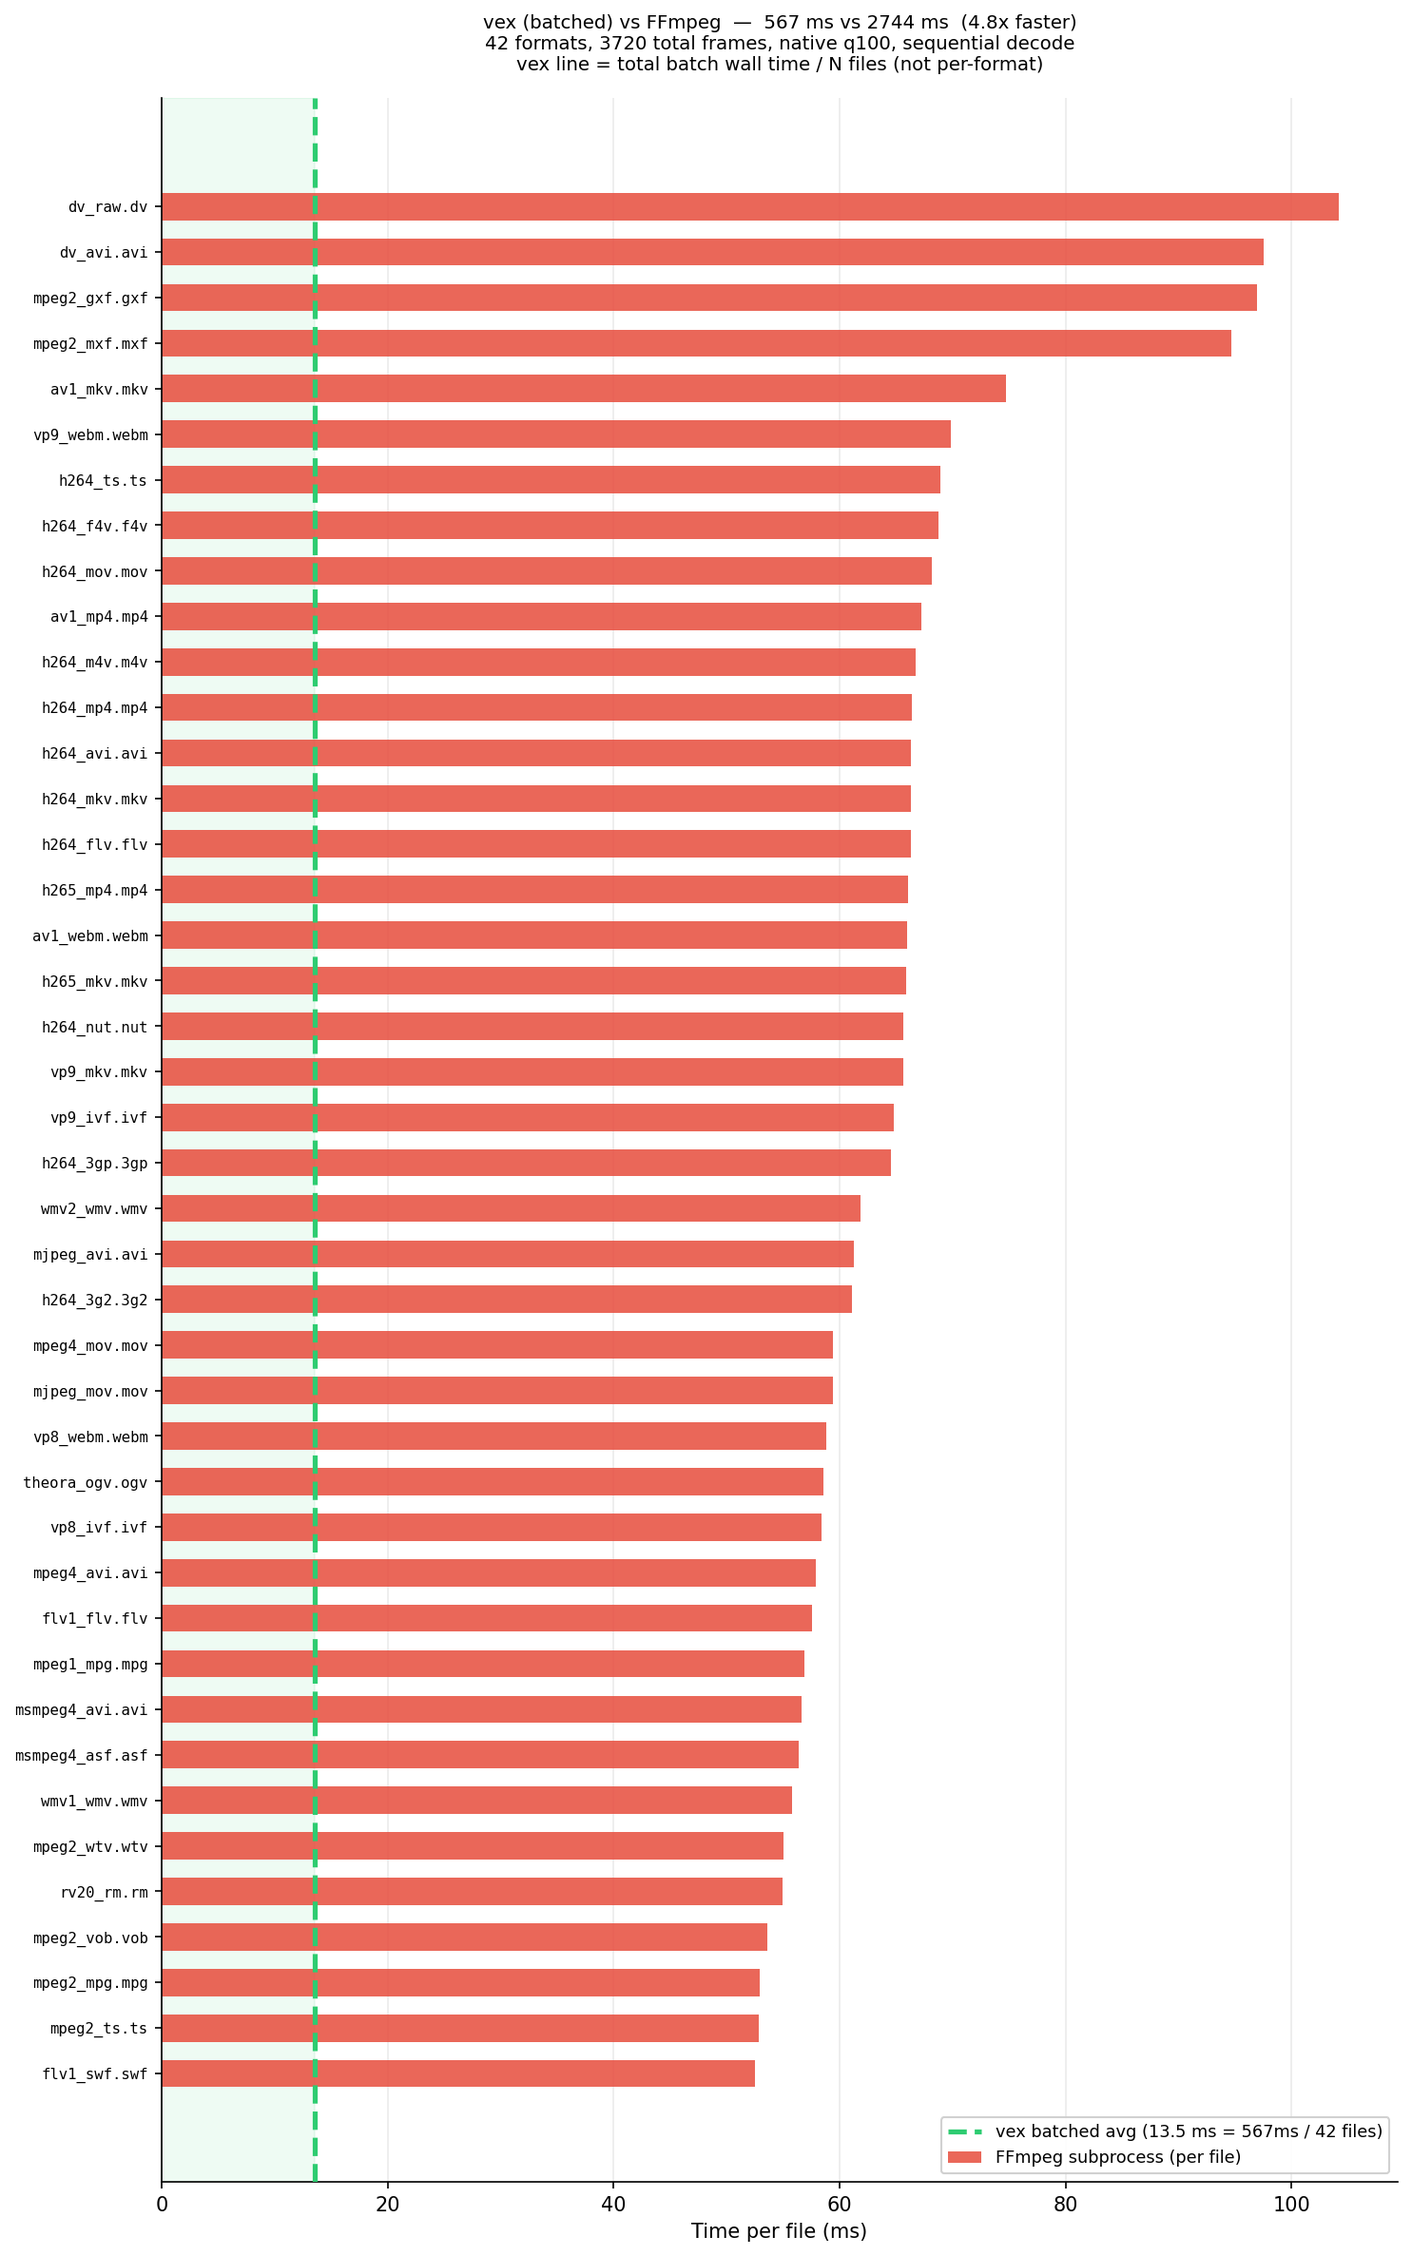
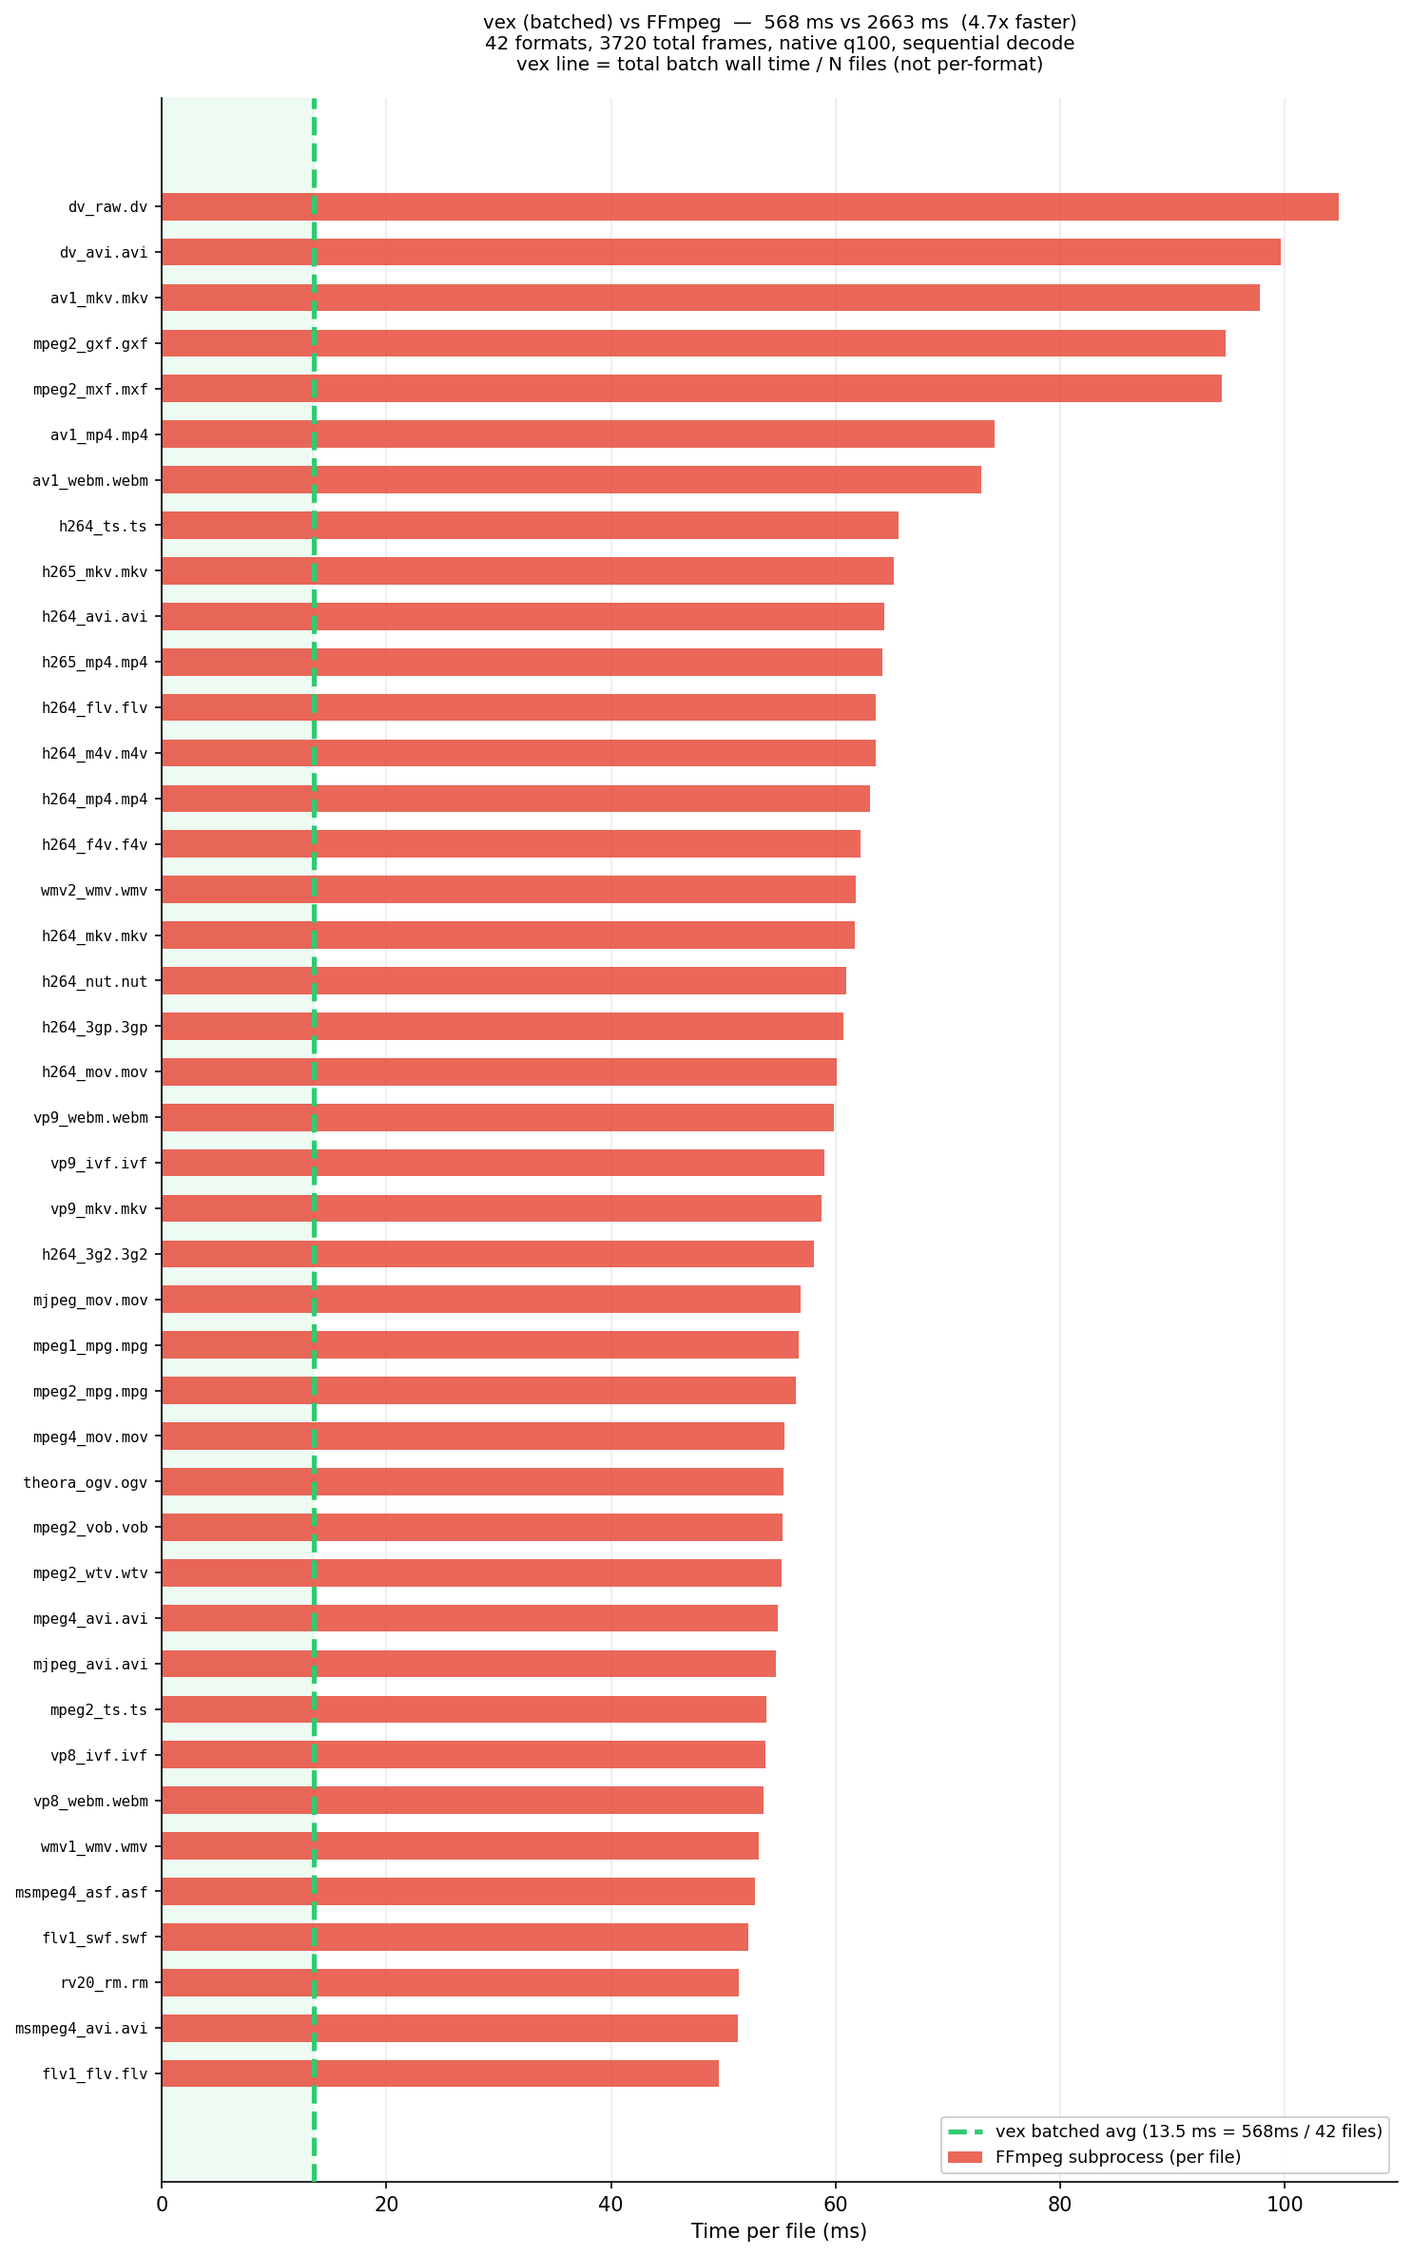
benchmark optimizations and resize optimizations

diff --git a/src/decoder.cpp b/src/decoder.cpp
@@ -8,14 +8,13 @@ extern "C" {
 #include <libavutil/imgutils.h>
 #include <libavutil/pixfmt.h>
 #include <libavutil/log.h>
-#include <libswscale/swscale.h>
 }
 
 namespace vex {
 
 // ── Constructor ─────────────────────────────────────────────────────────────
 
-FileDecoder::FileDecoder(const std::string& path, HWAccelContext* hw) {
+FileDecoder::FileDecoder(const std::string& path, HWAccelContext* hw, int decode_threads) {
     // Step 1: Open input
     int ret = avformat_open_input(&fmt_ctx_, path.c_str(), nullptr, nullptr);
     if (ret < 0) {
@@ -106,7 +105,16 @@ FileDecoder::FileDecoder(const std::string& path, HWAccelContext* hw) {
         hw_accel_ = hw;
     }
 
-    // Step 9: Open codec.  Suppress noisy log output during open — FFmpeg
+    // Step 9: Enable multi-threaded decode.  Codecs like DV support slice
+    // threading (parallel DCT blocks within a frame) which gives a 2-3x
+    // decode speedup.  thread_count=0 tells FFmpeg to auto-detect the
+    // optimal thread count based on CPU cores and codec capabilities.
+    // When the caller specifies a limit (decode_threads > 0), we cap the
+    // count to avoid oversubscription when multiple workers each open
+    // their own codec context.
+    codec_ctx_->thread_count = decode_threads;
+
+    // Step 10: Open codec.  Suppress noisy log output during open — FFmpeg
     // logs warnings for every HW format it tries and rejects.
     int saved_level = av_log_get_level();
     if (hw)
@@ -145,12 +153,6 @@ FileDecoder::~FileDecoder() {
     if (hw_frame_) {
         av_frame_free(&hw_frame_);
     }
-    if (convert_frame_) {
-        av_frame_free(&convert_frame_);
-    }
-    if (convert_ctx_) {
-        sws_freeContext(convert_ctx_);
-    }
     if (codec_ctx_) {
         avcodec_free_context(&codec_ctx_);
     }
@@ -186,53 +188,9 @@ bool FileDecoder::finalize_frame(AVFrame* decode_target, AVFrame* out_frame) {
         av_frame_move_ref(out_frame, decode_target);
     }
 
-    // Convert non-YUV420P frames (e.g. NV12 from HW decode).
-    // Stage 1: Cache the SwsContext and scratch frame across calls to avoid
-    // per-frame allocation overhead (sws_getContext is ~10-100µs).
-    if (out_frame->format != AV_PIX_FMT_YUV420P && out_frame->format != AV_PIX_FMT_YUVJ420P) {
-        int src_fmt = out_frame->format;
-        int src_w = out_frame->width;
-        int src_h = out_frame->height;
-
-        // Rebuild the conversion context if the source format or dimensions
-        // changed (extremely rare — only if a stream changes mid-file).
-        if (!convert_ctx_ || src_fmt != convert_src_fmt_ || src_w != convert_src_w_ ||
-            src_h != convert_src_h_) {
-            if (convert_ctx_)
-                sws_freeContext(convert_ctx_);
-            if (convert_frame_)
-                av_frame_free(&convert_frame_);
-
-            convert_ctx_ =
-                sws_getContext(src_w, src_h, static_cast<AVPixelFormat>(src_fmt), src_w, src_h,
-                               AV_PIX_FMT_YUV420P, SWS_BILINEAR, nullptr, nullptr, nullptr);
-
-            if (!convert_ctx_) {
-                convert_src_fmt_ = AV_PIX_FMT_NONE;
-                av_frame_unref(out_frame);
-                return false;
-            }
-
-            convert_frame_ = av_frame_alloc();
-            convert_frame_->format = AV_PIX_FMT_YUV420P;
-            convert_frame_->width = src_w;
-            convert_frame_->height = src_h;
-            av_frame_get_buffer(convert_frame_, 0);
-
-            convert_src_fmt_ = src_fmt;
-            convert_src_w_ = src_w;
-            convert_src_h_ = src_h;
-        }
-
-        // Make the scratch frame writable (may be a no-op if refcount == 1).
-        av_frame_make_writable(convert_frame_);
-
-        sws_scale(convert_ctx_, out_frame->data, out_frame->linesize, 0, src_h,
-                  convert_frame_->data, convert_frame_->linesize);
-
-        av_frame_unref(out_frame);
-        av_frame_ref(out_frame, convert_frame_);
-    }
+    // Pixel format conversion (e.g. YUV411P, NV12) is deferred to the
+    // FrameScaler which combines it with downscaling in a single sws_scale
+    // pass, avoiding a redundant full-resolution intermediate conversion.
 
     return true;
 }

diff --git a/src/orchestrator.cpp b/src/orchestrator.cpp
@@ -120,6 +120,9 @@ struct SharedContext {
     // Per-thread metrics
     std::vector<std::shared_ptr<ThreadMetrics>> all_metrics;
 
+    // Per-codec decode thread budget (cores / workers, min 1)
+    int decode_threads = 0;
+
     // Wall-clock start
     std::chrono::high_resolution_clock::time_point wall_start;
 
@@ -175,7 +178,7 @@ static void worker_func(std::shared_ptr<SharedContext> ctx, int thread_id) {
             if (hw_attempt == 1 && !hw_compatible)
                 break;
 
-            FileDecoder decoder_file(path, use_hw);
+            FileDecoder decoder_file(path, use_hw, ctx->decode_threads);
             if (!decoder_file.is_valid()) {
                 if (hw_attempt == 0 && hw_ptr)
                     continue;  // retry with software
@@ -220,10 +223,11 @@ static void worker_func(std::shared_ptr<SharedContext> ctx, int thread_id) {
                     lm.output_format =
                         (lc.output == OutputFormat::JPEG_STREAM) ? "jpeg_stream" : "sprite_atlas";
 
-                    // Create/reuse scaler for this level
+                    // Create/reuse scaler for this level (src format from decoded frame
+                    // so the scaler combines pixel format conversion + downscale in one pass)
                     if (!scalers[static_cast<size_t>(l)]) {
                         scalers[static_cast<size_t>(l)] =
-                            std::make_unique<FrameScaler>(src_w, src_h, lc.width, lc.height);
+                            std::make_unique<FrameScaler>(src_w, src_h, decode_frame->format, lc.width, lc.height);
                     }
 
                     auto& scaler = *scalers[static_cast<size_t>(l)];
@@ -556,7 +560,7 @@ static void worker_func(std::shared_ptr<SharedContext> ctx, int thread_id) {
                 }
 
                 // Sequential fallback
-                FileDecoder fallback_dec(path, nullptr);
+                FileDecoder fallback_dec(path, nullptr, ctx->decode_threads);
                 if (fallback_dec.is_valid()) {
                     int fb_src_w = fallback_dec.source_width();
                     int fb_src_h = fallback_dec.source_height();
@@ -598,7 +602,7 @@ static void worker_func(std::shared_ptr<SharedContext> ctx, int thread_id) {
 
                             if (!fb_scalers[static_cast<size_t>(l)]) {
                                 fb_scalers[static_cast<size_t>(l)] = std::make_unique<FrameScaler>(
-                                    fb_src_w, fb_src_h, lc.width, lc.height);
+                                    fb_src_w, fb_src_h, decode_frame->format, lc.width, lc.height);
                             }
                             auto& scaler = *fb_scalers[static_cast<size_t>(l)];
 
@@ -820,11 +824,19 @@ std::shared_ptr<DecodeHandle> Orchestrator::batch_decode_async(const BatchConfig
     if (num_threads <= 0)
         num_threads = 1;
 
+    // Divide CPU cores between worker threads and per-codec decode threads.
+    // With N workers, each codec gets cores/N threads for slice/frame threading.
+    // This avoids oversubscription (N workers × auto threads = N² threads).
+    // When there's only 1 worker, use 0 (FFmpeg auto-detect) so that
+    // codec-specific heuristics pick the optimal thread count.
+    int decode_threads = (num_threads == 1) ? 0 : std::max(1, hw_threads / num_threads);
+
     // Build shared context (heap-allocated, shared among all threads)
     auto ctx = std::make_shared<SharedContext>();
     ctx->config = config;
     ctx->num_levels = num_levels;
     ctx->num_files = num_files;
+    ctx->decode_threads = decode_threads;
     ctx->wall_start = std::chrono::high_resolution_clock::now();
 
     // Create shared handle

diff --git a/src/decoder.h b/src/decoder.h
@@ -7,7 +7,6 @@ extern "C" {
 #include <libavformat/avformat.h>
 #include <libavcodec/avcodec.h>
 #include <libavutil/frame.h>
-#include <libswscale/swscale.h>
 }
 
 #include <string>
@@ -18,7 +17,9 @@ class FileDecoder {
 public:
     // Opens the file and initialises the video decoder.
     // hw may be nullptr for software-only decode.
-    FileDecoder(const std::string& path, HWAccelContext* hw = nullptr);
+    // decode_threads: 0 = auto (all cores), >0 = limit FFmpeg's internal
+    // slice/frame threading to this many threads.
+    FileDecoder(const std::string& path, HWAccelContext* hw = nullptr, int decode_threads = 0);
     ~FileDecoder();
 
     FileDecoder(const FileDecoder&) = delete;
@@ -33,7 +34,7 @@ public:
     // Extract keyframe index via the fallback chain.
     KeyframeIndex scan_keyframes();
 
-    // Seek to keyframe and decode one I-frame into out_frame (YUV420P).
+    // Seek to keyframe and decode one I-frame into out_frame (native pix fmt).
     bool seek_and_decode(const KeyframeInfo& kf, AVFrame* out_frame);
 
     // ── Sequential decode API ──────────────────────────────────────────────
@@ -61,7 +62,8 @@ public:
     int64_t file_size() const { return file_size_; }
 
 private:
-    // Shared post-decode processing: HW transfer + pixel format conversion.
+    // Shared post-decode processing: HW frame transfer.
+    // Pixel format conversion is deferred to FrameScaler.
     bool finalize_frame(AVFrame* decode_target, AVFrame* out_frame);
 
     AVFormatContext* fmt_ctx_ = nullptr;
@@ -76,14 +78,6 @@ private:
     std::string codec_name_;
     AVCodecID codec_id_ = AV_CODEC_ID_NONE;
     bool valid_ = false;
-
-    // Cached pixel-format conversion context (Stage 1: avoids per-frame alloc).
-    // Used when HW decode produces NV12 or other non-YUV420P output.
-    SwsContext* convert_ctx_ = nullptr;
-    AVFrame* convert_frame_ = nullptr;
-    int convert_src_fmt_ = AV_PIX_FMT_NONE;
-    int convert_src_w_ = 0;
-    int convert_src_h_ = 0;
 };
 
 }  // namespace vex

diff --git a/tools/benchmark.py b/tools/benchmark.py
@@ -49,13 +49,33 @@ ASSETS_DIR = PROJECT_ROOT / "assets"
 # ---------------------------------------------------------------------------
 
 
+def _quality_to_ffmpeg_qv(quality: int) -> int:
+    """Map TurboJPEG quality (1-100) to FFmpeg MJPEG ``-q:v`` (1-31).
+
+    Empirically calibrated at 720x576 MPEG-2 content by matching output
+    file sizes between TurboJPEG and FFmpeg's MJPEG encoder.
+
+    FFmpeg's MJPEG encoder maxes out at ``-q:v 1`` which produces output
+    roughly equivalent to TurboJPEG quality 91.  For higher TJ qualities
+    we still use ``-q:v 1`` (FFmpeg's best).
+    """
+    if quality >= 91:
+        return 1
+    return max(2, round((100 - quality) / 5))
+
+
 def ffmpeg_pipe_decode(
-    input_path: str, width: int | None = None, height: int | None = None
+    input_path: str,
+    width: int | None = None,
+    height: int | None = None,
+    quality: int = 85,
 ) -> tuple[float, int]:
     """Spawn FFmpeg, pipe MJPEG to stdout, scan markers, build index.
 
     Returns (elapsed_seconds, frame_count).
     """
+    qv = _quality_to_ffmpeg_qv(quality)
+
     cmd = [
         str(FFMPEG_BIN),
         "-hide_banner",
@@ -72,7 +92,7 @@ def ffmpeg_pipe_decode(
 
     cmd += [
         "-q:v",
-        "2",
+        str(qv),
         "-f",
         "image2pipe",
         "-vcodec",
@@ -187,7 +207,7 @@ def run_batch_benchmark(
         ff_per_file: list[tuple[float, int]] = []
         ff_total = 0.0
         for _, path in fixtures:
-            ft_i, fc_i = ffmpeg_pipe_decode(path, width, height)
+            ft_i, fc_i = ffmpeg_pipe_decode(path, width, height, quality)
             ff_per_file.append((ft_i, fc_i))
             ff_total += ft_i
         if ff_total < best_ff:
@@ -265,7 +285,7 @@ def run_perfile_benchmark(
 
         for i, (_, path) in enumerate(fixtures):
             vt_i, vf_i = vex_single_decode(path, width, height, quality)
-            ft_i, fc_i = ffmpeg_pipe_decode(path, width, height)
+            ft_i, fc_i = ffmpeg_pipe_decode(path, width, height, quality)
 
             vex_total += vt_i
             ff_total += ft_i

diff --git a/src/scaler.cpp b/src/scaler.cpp
@@ -13,14 +13,15 @@ namespace vex {
 
 // ── Constructor ─────────────────────────────────────────────────────────────
 
-FrameScaler::FrameScaler(int src_w, int src_h, int dst_w, int dst_h)
-    : identity_(src_w == dst_w && src_h == dst_h),
+FrameScaler::FrameScaler(int src_w, int src_h, int src_fmt, int dst_w, int dst_h)
+    : identity_(src_w == dst_w && src_h == dst_h &&
+                (src_fmt == AV_PIX_FMT_YUV420P || src_fmt == AV_PIX_FMT_YUVJ420P)),
       src_w_(src_w),
       src_h_(src_h),
       dst_w_(dst_w),
       dst_h_(dst_h) {
     if (!identity_) {
-        sws_ctx_ = sws_getContext(src_w, src_h, AV_PIX_FMT_YUV420P, dst_w, dst_h,
+        sws_ctx_ = sws_getContext(src_w, src_h, static_cast<AVPixelFormat>(src_fmt), dst_w, dst_h,
                                   AV_PIX_FMT_YUV420P, SWS_BILINEAR, nullptr, nullptr, nullptr);
     }
 }

diff --git a/src/scaler.h b/src/scaler.h
@@ -11,7 +11,7 @@ namespace vex {
 
 class FrameScaler {
 public:
-    FrameScaler(int src_w, int src_h, int dst_w, int dst_h);
+    FrameScaler(int src_w, int src_h, int src_fmt, int dst_w, int dst_h);
     ~FrameScaler();
 
     FrameScaler(const FrameScaler&) = delete;
@@ -21,8 +21,9 @@ public:
     int dst_width() const { return dst_w_; }
     int dst_height() const { return dst_h_; }
 
-    // Scale src YUV420P frame into destination plane buffers.
-    // If identity (src == dst dimensions), copies planes directly.
+    // Scale + convert src frame into YUV420P destination plane buffers.
+    // Handles pixel format conversion and scaling in a single pass.
+    // If identity (src == dst dimensions and already YUV420P), copies directly.
     void scale(const AVFrame* src, uint8_t* dst_y, uint8_t* dst_u, uint8_t* dst_v, int dst_y_stride,
                int dst_uv_stride);
 

diff --git a/README.md b/README.md
@@ -30,6 +30,8 @@ True per-format decode: both vex and FFmpeg process one file at a time.
 
 ![vex per-file native benchmark](assets/benchmark_perfile_native.png)
 
+**Note on MXF/GXF native results:** At q100, vex appears slower than FFmpeg on MXF and GXF because the two tools produce different quality output. FFmpeg's built-in MJPEG encoder has a quality ceiling around TurboJPEG q91 — its `-q:v 1` and `-q:v 2` produce identical files. vex at q100 uses TurboJPEG's accurate DCT path and produces ~2.2x larger (higher fidelity) JPEGs, so the extra time is spent encoding more data, not decoding slower. At thumbnail sizes (192x192 q85) where encoding cost is negligible, vex is faster across all formats.
+
 Regenerate with `./dev.sh bench` (or `./dev.sh bench --runs 3` for best-of-3).
 
 ## Features
